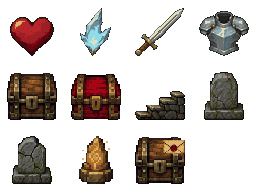
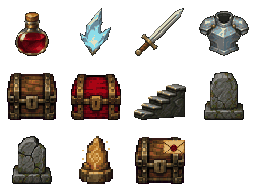
Rename healing pickup to potion and redraw side-facing stairs

Changed region(s): [[0.0312, 0.0625, 0.2188, 0.3125], [0.5, 0.4375, 0.75, 0.625]]

diff --git a/index.html b/index.html
@@ -1,7 +1,7 @@
 <!doctype html>
 <html lang="ja" data-startup>
-<head><style id="startup-style">html[data-startup],html[data-startup] body{margin:0;background:#070b0d;overflow:hidden}html[data-startup] body>:not(#startup-status):not(noscript){opacity:0!important;visibility:hidden!important;pointer-events:none!important}#startup-status{position:fixed;inset:0;z-index:10000;display:flex;flex-direction:column;align-items:center;justify-content:center;gap:16px;margin:0;padding:24px;background:#070b0d;color:#c7c8cc;font:14px/1.8 sans-serif;text-align:center}#startup-status[hidden]{display:none!important}#startup-retry{padding:10px 18px;border:1px solid #878b92;border-radius:4px;background:#303237;color:#eee;font:inherit}#startup-retry[hidden]{display:none}</style><meta charset="UTF-8"><meta name="viewport" content="width=device-width,initial-scale=1,viewport-fit=cover"><meta name="theme-color" content="#292b2f"><title>骸の旅路 — 記憶の迷宮</title><link rel="icon" href="./favicon.svg" type="image/svg+xml"><link rel="stylesheet" href="./style.css?v=3cd92b8defd9"><link rel="stylesheet" href="./screens.css?v=f2082bfa14ea"><script type="importmap" id="asset-imports">{"imports":{"./active-directive.js":"./active-directive.js?v=9d39d1e02ceb","./actor-rules.js":"./actor-rules.js?v=9044c8465822","./app.js":"./app.js?v=6377d8c08e59","./augment-art.js":"./augment-art.js?v=c145d1a95447","./augment-growth.js":"./augment-growth.js?v=637a4bc6e426","./augment-strength.js":"./augment-strength.js?v=f231593e5e30","./augment-view.js":"./augment-view.js?v=95894b3d4765","./augments.js":"./augments.js?v=754639bd9e60","./awakening.js":"./awakening.js?v=0f691b8adfd8","./boss-arena.js":"./boss-arena.js?v=0a249ca520c5","./build-performance.js":"./build-performance.js?v=6803146a32e4","./build-themes.js":"./build-themes.js?v=adc101169f0c","./card-access.js":"./card-access.js?v=7a97e0199534","./card-catalog.js":"./card-catalog.js?v=65f7715c196e","./card-editor.js":"./card-editor.js?v=dc611d5e8982","./card-inventory.js":"./card-inventory.js?v=52b8e332610c","./card-orders.js":"./card-orders.js?v=43ca8428fa71","./card-placement.js":"./card-placement.js?v=3ba1b736795a","./character-animation.js":"./character-animation.js?v=846a44d3b46e","./chest-view.js":"./chest-view.js?v=36ab0ed8c3bb","./crypt-obstacles.js":"./crypt-obstacles.js?v=da5f9731f535","./damage-view.js":"./damage-view.js?v=ad25349b42a6","./data.js":"./data.js?v=9428ac4d8c36","./debug-tools.js":"./debug-tools.js?v=9b32f8a4f543","./directive-card-migration.js":"./directive-card-migration.js?v=db0cfee578cb","./directive-safety.js":"./directive-safety.js?v=9e6f9dc4d673","./display-mode.js":"./display-mode.js?v=1200a20c9763","./drop-system.js":"./drop-system.js?v=5f5b885a6c70","./dungeon-layout.js":"./dungeon-layout.js?v=4766caf4ba4a","./editor-scroll.js":"./editor-scroll.js?v=d432721d02af","./enemy-attack-animation.js":"./enemy-attack-animation.js?v=d66a38b23017","./enemy-control.js":"./enemy-control.js?v=573188fc27e3","./enemy-view.js":"./enemy-view.js?v=59c2c5cccd17","./engine.js":"./engine.js?v=a1d03fe51224","./entrance-view.js":"./entrance-view.js?v=c71496db5fd5","./exploration-forecast.js":"./exploration-forecast.js?v=966694ee67bb","./field-events.js":"./field-events.js?v=f0630fcf42fe","./forecast-comparison.js":"./forecast-comparison.js?v=1d00a0a629c9","./forecast-view.js":"./forecast-view.js?v=55c84c25dd9c","./game-engine.js":"./game-engine.js?v=466e763ffcf4","./healing-items.js":"./healing-items.js?v=38c35c441894","./hover-help.js":"./hover-help.js?v=5ab3b03409b2","./log-visibility.js":"./log-visibility.js?v=a8d184fa9c31","./map-discovery.js":"./map-discovery.js?v=7e85856a912f","./map-view.js":"./map-view.js?v=6a5e3efe03ff","./normal-ending.js":"./normal-ending.js?v=c8b8b421be5a","./opening.js":"./opening.js?v=49dd7590c318","./order-presets.js":"./order-presets.js?v=4318479b11a6","./orders.js":"./orders.js?v=3a5bd481bbbd","./preparation-skins.js":"./preparation-skins.js?v=248b10334f76","./progression.js":"./progression.js?v=fefc50a042f2","./prop-view.js":"./prop-view.js?v=2e8aec011f8d","./readable-props.js":"./readable-props.js?v=40bcf8ec3afb","./reinforcements.js":"./reinforcements.js?v=17d0aa375da8","./retired-cards.js":"./retired-cards.js?v=e3b150578086","./retired-loot-condition.js":"./retired-loot-condition.js?v=c7e4b2e4ed7f","./retired-tactics.js":"./retired-tactics.js?v=6ac6a3d7bdd6","./scene-depth.js":"./scene-depth.js?v=6e084932d9db","./scene-lighting.js":"./scene-lighting.js?v=b5cb4d7ad449","./scene-music.js":"./scene-music.js?v=628218890f8a","./screen-tutorial.js":"./screen-tutorial.js?v=9a88231b8192","./set-bonuses.js":"./set-bonuses.js?v=83419172a572","./sight-shape.js":"./sight-shape.js?v=7fb76bf94888","./skill-tree.js":"./skill-tree.js?v=a443f7cda48c","./story-text.js":"./story-text.js?v=c16732c7c430","./subtitle-player.js":"./subtitle-player.js?v=3683e3daea9e","./tactics-ui.js":"./tactics-ui.js?v=f65d6e25ef72","./terrain-view.js":"./terrain-view.js?v=3034ddbc3d93","./theme-runtime.js":"./theme-runtime.js?v=516c73cb54e1","./theme-view.js":"./theme-view.js?v=23eb9ad18325","./thought-view.js":"./thought-view.js?v=c869345c5c7c","./traps.js":"./traps.js?v=76a5a5c39bd8","./ui-settings.js":"./ui-settings.js?v=5d3cf496e455","./wall-tileset.js":"./wall-tileset.js?v=0efdd86872f1"}}</script><style id="preparation-assets">:root{--prep-card-target:url("./art/ui/preparation/card-target.png?v=294a95499d91");--prep-card-condition:url("./art/ui/preparation/card-condition.png?v=1995a518f47b");--prep-card-skill:url("./art/ui/preparation/card-skill.png?v=30c317bc0a66");--prep-card-action:url("./art/ui/preparation/card-action.png?v=ce7770c0e3d0");--prep-tray-left:url("./art/ui/preparation/tray-left.png?v=41d297bec849");--prep-tray-middle:url("./art/ui/preparation/tray-middle.png?v=e8dbbc8dd60e");--prep-tray-right:url("./art/ui/preparation/tray-right.png?v=26f0500ba6f5")}html[data-preparation-skin="black-iron"]{--prep-tray-left:url("./art/ui/preparation/black-iron/tray-left.png?v=f699164bbeec");--prep-tray-middle:url("./art/ui/preparation/black-iron/tray-middle.png?v=c86dfa77ca3b");--prep-tray-right:url("./art/ui/preparation/black-iron/tray-right.png?v=af71fafdc89f")}html[data-preparation-skin="bone-parchment"]{--prep-tray-left:url("./art/ui/preparation/bone-parchment/tray-left.png?v=81457a1085ee");--prep-tray-middle:url("./art/ui/preparation/bone-parchment/tray-middle.png?v=29dab673fc17");--prep-tray-right:url("./art/ui/preparation/bone-parchment/tray-right.png?v=35d0901b5912")}html[data-preparation-skin="obsidian-runes"]{--prep-tray-left:url("./art/ui/preparation/obsidian-runes/tray-left.png?v=b764224fecce");--prep-tray-middle:url("./art/ui/preparation/obsidian-runes/tray-middle.png?v=da32e3412769");--prep-tray-right:url("./art/ui/preparation/obsidian-runes/tray-right.png?v=0ce90c4de94b")}</style><style id="preparation-text-layout">:root{--prep-text-left:10.097087378640776%;--prep-text-top:49.23076923076923%;--prep-text-width:78.44660194174757%;--prep-text-height:30.76923076923077%;--prep-number-left:37px;--prep-number-top:31px;--prep-number-width:34px;--prep-number-height:34px;--prep-card-overlap:39.37864077669902px;--prep-join-tail:5.048543689320386px;--prep-insertion-width:64px}</style><style id="preparation-decor-assets">:root{--prep-decor-background:url("./art/ui/preparation-decor-v1/background.webp?v=806cf1ca4a8c");--prep-decor-frame:url("./art/ui/preparation-decor-v1/frame.webp?v=45b65807cd5a");--prep-decor-slice:48;--prep-decor-outer:20px;--prep-decor-panel:16px}</style></head>
-<body><audio id="scene-bgm" loop preload="none" data-opening="./art/BGM/星々の眠る地.mp3?v=38999af25b23" data-dungeon="./art/BGM/洞窟A.mp3?v=86ade3a02600" data-boss="./art/BGM/蒼晶のトレイル.mp3?v=59b0eb63b5e0" data-readable-props="./art/props/readable-v1/atlas-64.png?v=ad0aa431a296" data-traps="./art/BGM/絡繰仕掛けの罠を抜けて.mp3?v=e024da6e4365" data-monsters="./art/BGM/密林廃墟群.mp3?v=62f952dd1358" data-fog="./art/BGM/Ruined-Altar.mp3?v=0720136edcd9" data-ending="./art/BGM/光差し込む廃墟.mp3?v=ea94a7b342e8"></audio><section id="normal-ending" class="normal-ending" aria-label="通常エンド" hidden><div class="ending-stage"><img id="ending-image" src="./art/ending/normal-end-son-strike-v6.webp?v=c67b4a08d8ce" alt="若者の剣に倒れ、手を伸ばす骸" loading="lazy"><div class="ending-shade"></div><button id="ending-advance" class="subtitle-advance" aria-label="字幕を進める"></button><small id="ending-hint" class="subtitle-hint"></small><p id="ending-subtitle" class="ending-subtitle" aria-live="polite"><span id="ending-text"></span><span id="ending-caret" class="subtitle-caret" aria-hidden="true" hidden>▼</span></p><div id="ending-result" class="ending-result" hidden><h1 id="ending-heading">届かなかった声</h1><p id="ending-label">NORMAL END</p><p><span id="ending-result-note">通常エンド達成<br>次の旅では、B15の手紙を開けられます。</span></p><p id="ending-unimplemented" class="true-end-unimplemented" role="note" hidden></p><button id="ending-next" class="primary">次の旅へ</button></div></div><button id="ending-options" class="ending-options">オプション</button><button id="ending-skip" class="ending-skip">スキップ</button></section>
+<head><style id="startup-style">html[data-startup],html[data-startup] body{margin:0;background:#070b0d;overflow:hidden}html[data-startup] body>:not(#startup-status):not(noscript){opacity:0!important;visibility:hidden!important;pointer-events:none!important}#startup-status{position:fixed;inset:0;z-index:10000;display:flex;flex-direction:column;align-items:center;justify-content:center;gap:16px;margin:0;padding:24px;background:#070b0d;color:#c7c8cc;font:14px/1.8 sans-serif;text-align:center}#startup-status[hidden]{display:none!important}#startup-retry{padding:10px 18px;border:1px solid #878b92;border-radius:4px;background:#303237;color:#eee;font:inherit}#startup-retry[hidden]{display:none}</style><meta charset="UTF-8"><meta name="viewport" content="width=device-width,initial-scale=1,viewport-fit=cover"><meta name="theme-color" content="#292b2f"><title>骸の旅路 — 記憶の迷宮</title><link rel="icon" href="./favicon.svg" type="image/svg+xml"><link rel="stylesheet" href="./style.css?v=3cd92b8defd9"><link rel="stylesheet" href="./screens.css?v=f2082bfa14ea"><script type="importmap" id="asset-imports">{"imports":{"./active-directive.js":"./active-directive.js?v=9d39d1e02ceb","./actor-rules.js":"./actor-rules.js?v=9044c8465822","./app.js":"./app.js?v=6377d8c08e59","./augment-art.js":"./augment-art.js?v=c145d1a95447","./augment-growth.js":"./augment-growth.js?v=637a4bc6e426","./augment-strength.js":"./augment-strength.js?v=f231593e5e30","./augment-view.js":"./augment-view.js?v=95894b3d4765","./augments.js":"./augments.js?v=754639bd9e60","./awakening.js":"./awakening.js?v=0f691b8adfd8","./boss-arena.js":"./boss-arena.js?v=0a249ca520c5","./build-performance.js":"./build-performance.js?v=6803146a32e4","./build-themes.js":"./build-themes.js?v=adc101169f0c","./card-access.js":"./card-access.js?v=7a97e0199534","./card-catalog.js":"./card-catalog.js?v=65f7715c196e","./card-editor.js":"./card-editor.js?v=dc611d5e8982","./card-inventory.js":"./card-inventory.js?v=52b8e332610c","./card-orders.js":"./card-orders.js?v=26bbc178f4e1","./card-placement.js":"./card-placement.js?v=3ba1b736795a","./character-animation.js":"./character-animation.js?v=846a44d3b46e","./chest-view.js":"./chest-view.js?v=36ab0ed8c3bb","./crypt-obstacles.js":"./crypt-obstacles.js?v=da5f9731f535","./damage-view.js":"./damage-view.js?v=ad25349b42a6","./data.js":"./data.js?v=9428ac4d8c36","./debug-tools.js":"./debug-tools.js?v=9b32f8a4f543","./directive-card-migration.js":"./directive-card-migration.js?v=db0cfee578cb","./directive-safety.js":"./directive-safety.js?v=9e6f9dc4d673","./display-mode.js":"./display-mode.js?v=1200a20c9763","./drop-system.js":"./drop-system.js?v=5f5b885a6c70","./dungeon-layout.js":"./dungeon-layout.js?v=4766caf4ba4a","./editor-scroll.js":"./editor-scroll.js?v=d432721d02af","./enemy-attack-animation.js":"./enemy-attack-animation.js?v=d66a38b23017","./enemy-control.js":"./enemy-control.js?v=573188fc27e3","./enemy-view.js":"./enemy-view.js?v=59c2c5cccd17","./engine.js":"./engine.js?v=a1d03fe51224","./entrance-view.js":"./entrance-view.js?v=c71496db5fd5","./exploration-forecast.js":"./exploration-forecast.js?v=966694ee67bb","./field-events.js":"./field-events.js?v=f0630fcf42fe","./forecast-comparison.js":"./forecast-comparison.js?v=1d00a0a629c9","./forecast-view.js":"./forecast-view.js?v=55c84c25dd9c","./game-engine.js":"./game-engine.js?v=2b3440e311ea","./healing-items.js":"./healing-items.js?v=c399c53731e4","./hover-help.js":"./hover-help.js?v=5ab3b03409b2","./log-visibility.js":"./log-visibility.js?v=a8d184fa9c31","./map-discovery.js":"./map-discovery.js?v=7e85856a912f","./map-view.js":"./map-view.js?v=6a5e3efe03ff","./normal-ending.js":"./normal-ending.js?v=c8b8b421be5a","./opening.js":"./opening.js?v=49dd7590c318","./order-presets.js":"./order-presets.js?v=4318479b11a6","./orders.js":"./orders.js?v=4b867f6ecbc7","./preparation-skins.js":"./preparation-skins.js?v=248b10334f76","./progression.js":"./progression.js?v=fefc50a042f2","./prop-view.js":"./prop-view.js?v=2e8aec011f8d","./readable-props.js":"./readable-props.js?v=fbd89f5e2ec3","./reinforcements.js":"./reinforcements.js?v=17d0aa375da8","./retired-cards.js":"./retired-cards.js?v=e3b150578086","./retired-loot-condition.js":"./retired-loot-condition.js?v=c7e4b2e4ed7f","./retired-tactics.js":"./retired-tactics.js?v=6ac6a3d7bdd6","./scene-depth.js":"./scene-depth.js?v=6e084932d9db","./scene-lighting.js":"./scene-lighting.js?v=b5cb4d7ad449","./scene-music.js":"./scene-music.js?v=628218890f8a","./screen-tutorial.js":"./screen-tutorial.js?v=9a88231b8192","./set-bonuses.js":"./set-bonuses.js?v=83419172a572","./sight-shape.js":"./sight-shape.js?v=7fb76bf94888","./skill-tree.js":"./skill-tree.js?v=a443f7cda48c","./story-text.js":"./story-text.js?v=c16732c7c430","./subtitle-player.js":"./subtitle-player.js?v=3683e3daea9e","./tactics-ui.js":"./tactics-ui.js?v=f65d6e25ef72","./terrain-view.js":"./terrain-view.js?v=3034ddbc3d93","./theme-runtime.js":"./theme-runtime.js?v=516c73cb54e1","./theme-view.js":"./theme-view.js?v=23eb9ad18325","./thought-view.js":"./thought-view.js?v=62f01217998b","./traps.js":"./traps.js?v=76a5a5c39bd8","./ui-settings.js":"./ui-settings.js?v=5d3cf496e455","./wall-tileset.js":"./wall-tileset.js?v=0efdd86872f1"}}</script><style id="preparation-assets">:root{--prep-card-target:url("./art/ui/preparation/card-target.png?v=294a95499d91");--prep-card-condition:url("./art/ui/preparation/card-condition.png?v=1995a518f47b");--prep-card-skill:url("./art/ui/preparation/card-skill.png?v=30c317bc0a66");--prep-card-action:url("./art/ui/preparation/card-action.png?v=ce7770c0e3d0");--prep-tray-left:url("./art/ui/preparation/tray-left.png?v=41d297bec849");--prep-tray-middle:url("./art/ui/preparation/tray-middle.png?v=e8dbbc8dd60e");--prep-tray-right:url("./art/ui/preparation/tray-right.png?v=26f0500ba6f5")}html[data-preparation-skin="black-iron"]{--prep-tray-left:url("./art/ui/preparation/black-iron/tray-left.png?v=f699164bbeec");--prep-tray-middle:url("./art/ui/preparation/black-iron/tray-middle.png?v=c86dfa77ca3b");--prep-tray-right:url("./art/ui/preparation/black-iron/tray-right.png?v=af71fafdc89f")}html[data-preparation-skin="bone-parchment"]{--prep-tray-left:url("./art/ui/preparation/bone-parchment/tray-left.png?v=81457a1085ee");--prep-tray-middle:url("./art/ui/preparation/bone-parchment/tray-middle.png?v=29dab673fc17");--prep-tray-right:url("./art/ui/preparation/bone-parchment/tray-right.png?v=35d0901b5912")}html[data-preparation-skin="obsidian-runes"]{--prep-tray-left:url("./art/ui/preparation/obsidian-runes/tray-left.png?v=b764224fecce");--prep-tray-middle:url("./art/ui/preparation/obsidian-runes/tray-middle.png?v=da32e3412769");--prep-tray-right:url("./art/ui/preparation/obsidian-runes/tray-right.png?v=0ce90c4de94b")}</style><style id="preparation-text-layout">:root{--prep-text-left:10.097087378640776%;--prep-text-top:49.23076923076923%;--prep-text-width:78.44660194174757%;--prep-text-height:30.76923076923077%;--prep-number-left:37px;--prep-number-top:31px;--prep-number-width:34px;--prep-number-height:34px;--prep-card-overlap:39.37864077669902px;--prep-join-tail:5.048543689320386px;--prep-insertion-width:64px}</style><style id="preparation-decor-assets">:root{--prep-decor-background:url("./art/ui/preparation-decor-v1/background.webp?v=806cf1ca4a8c");--prep-decor-frame:url("./art/ui/preparation-decor-v1/frame.webp?v=45b65807cd5a");--prep-decor-slice:48;--prep-decor-outer:20px;--prep-decor-panel:16px}</style></head>
+<body><audio id="scene-bgm" loop preload="none" data-opening="./art/BGM/星々の眠る地.mp3?v=38999af25b23" data-dungeon="./art/BGM/洞窟A.mp3?v=86ade3a02600" data-boss="./art/BGM/蒼晶のトレイル.mp3?v=59b0eb63b5e0" data-readable-props="./art/props/readable-v1/atlas-64.png?v=cc4acb329036" data-traps="./art/BGM/絡繰仕掛けの罠を抜けて.mp3?v=e024da6e4365" data-monsters="./art/BGM/密林廃墟群.mp3?v=62f952dd1358" data-fog="./art/BGM/Ruined-Altar.mp3?v=0720136edcd9" data-ending="./art/BGM/光差し込む廃墟.mp3?v=ea94a7b342e8"></audio><section id="normal-ending" class="normal-ending" aria-label="通常エンド" hidden><div class="ending-stage"><img id="ending-image" src="./art/ending/normal-end-son-strike-v6.webp?v=c67b4a08d8ce" alt="若者の剣に倒れ、手を伸ばす骸" loading="lazy"><div class="ending-shade"></div><button id="ending-advance" class="subtitle-advance" aria-label="字幕を進める"></button><small id="ending-hint" class="subtitle-hint"></small><p id="ending-subtitle" class="ending-subtitle" aria-live="polite"><span id="ending-text"></span><span id="ending-caret" class="subtitle-caret" aria-hidden="true" hidden>▼</span></p><div id="ending-result" class="ending-result" hidden><h1 id="ending-heading">届かなかった声</h1><p id="ending-label">NORMAL END</p><p><span id="ending-result-note">通常エンド達成<br>次の旅では、B15の手紙を開けられます。</span></p><p id="ending-unimplemented" class="true-end-unimplemented" role="note" hidden></p><button id="ending-next" class="primary">次の旅へ</button></div></div><button id="ending-options" class="ending-options">オプション</button><button id="ending-skip" class="ending-skip">スキップ</button></section>
 <dialog id="landscape-gate" class="landscape-gate" aria-labelledby="landscape-heading"><h2 id="landscape-heading">横向きでプレイしてください</h2><p id="landscape-status">端末を横向きにしてください。</p><button id="landscape-fullscreen" type="button">横向きで全画面表示</button><small>PCと同じ配置で表示します。</small></dialog><div id="startup-status" role="status" aria-live="polite"><span id="startup-message">読み込み中…</span><button id="startup-retry" type="button" hidden>再読み込み</button></div>
 <noscript><style>#startup-status{display:none!important}</style><p style="color:#eee;padding:24px">ゲームを遊ぶにはJavaScriptを有効にしてください。</p></noscript>
 <section id="title-scene" class="title-scene" aria-labelledby="title-name" hidden><img id="title-background" class="title-background" alt="" data-mukuro="./art/opening-awakening.png?v=814d575892b7" data-segare="./art/opening-son-journey.png?v=3d4dd5e94c79"><div class="title-shade"></div><video id="title-fx" class="title-fx" data-mukuro="./art/title-mukuro-v3.webm?v=cb09a993a9d1" data-segare="./art/title-segare-v3.webm?v=0aee553c04f9" data-mukuro-fallback="./art/title-mukuro-v3-screen.mp4?v=dc14119acecd" data-segare-fallback="./art/title-segare-v3-screen.mp4?v=8ac95de47383" aria-hidden="true" muted loop playsinline preload="auto"></video><div class="title-content"><h1 id="title-name" class="visually-hidden">骸の旅路</h1><div class="title-logo-frame"><img id="title-logo" class="title-logo" alt="骸の旅路" data-mukuro="./art/logo-mukuro-journey.png?v=4069b9ecaf07" data-segare="./art/logo-segare-journey.png?v=265ce004c162"></div><nav class="title-menu" aria-label="タイトルメニュー"><button id="title-new" type="button">NewGame</button><button id="title-load" type="button" disabled>LoadGame</button><button id="title-option" type="button">Option</button><p id="title-unimplemented" class="true-end-unimplemented" role="note" hidden></p></nav></div></section>
@@ -11,7 +11,7 @@
 <div class="workspace" id="workspace" data-screen="prepare">
 <section id="awakening-scene" class="awakening-scene" aria-label="目覚め" hidden><div id="awakening-start"><button id="primary" class="primary">思い出す</button></div><button id="awakening-advance" class="subtitle-advance" aria-label="字幕を進める" hidden></button><small id="awakening-hint" class="subtitle-hint" hidden></small><p id="awakening-copy" class="awakening-subtitle" aria-live="polite" hidden><span id="awakening-text"></span><span id="awakening-caret" class="subtitle-caret" aria-hidden="true" hidden>▼</span></p></section>
 <section class="prepare-scene preparation panel" id="prepare-scene"><div class="panel-heading"><h2 id="prepare-floor">次の階への支度</h2><span class="tag">PREPARATION</span></div><div class="preparation-launch"><div class="launch-area" id="launch-area"><button id="prepare-status" class="secondary">ステータス</button><button id="prepare-forecast" class="secondary">探索の予測</button><div id="forecast-summary" class="forecast-summary" role="status" aria-live="polite" hidden></div><button id="prepare-journal" class="secondary">旅の記録</button><button id="abandon-run" class="secondary abandon-run">あきらめる</button></div></div><nav class="tabs" aria-label="準備メニュー"><button data-tab="orders" class="active">探索指示</button><button data-tab="gear">装備</button><button data-tab="status">ステータス</button><button id="preparation-skin" type="button" aria-label="カードスキンを変更">スキン：古金</button></nav><div id="prep-hint" class="prep-hint"></div><div id="prep-augments" class="prep-augments"></div><div id="tab-content"></div></section>
-<section class="adventure panel"><div class="dungeon-viewport transparent-view" aria-label="探索ゲーム画面"><div class="map-wrap" id="map-wrap"><canvas id="map" data-red-chest="./art/props/chest-skill-64.png?v=af8dcd916ebf" data-enemies="./art/enemies/v2/atlas-64.png?v=3149ffdfa138" data-hero="./art/characters/mukuro-march64-v1/sprites.json?v=81e47c514533" data-walls="./art/terrain/walls/crypt/tileset.json?v=e28794ff3e0a" data-readable-props="./art/props/readable-v1/atlas-64.png?v=ad0aa431a296" data-traps="./art/props/traps-v1/atlas-64.png?v=0097bfa975b4" data-map-items="./art/props/map-items-64.png?v=aedf1319f512" data-props="./art/props/atlas-64.png?v=11cfc2854a82" data-terrain="./art/terrain/floors-v2/atlas-64.png?v=702425fb5b6e" width="1920" height="1080" aria-label="自動探索するダンジョン。詳しい行動は右下の旅の記録で確認できます。"></canvas><div class="map-vignette"></div>
+<section class="adventure panel"><div class="dungeon-viewport transparent-view" aria-label="探索ゲーム画面"><div class="map-wrap" id="map-wrap"><canvas id="map" data-red-chest="./art/props/chest-skill-64.png?v=af8dcd916ebf" data-enemies="./art/enemies/v2/atlas-64.png?v=3149ffdfa138" data-hero="./art/characters/mukuro-march64-v1/sprites.json?v=81e47c514533" data-walls="./art/terrain/walls/crypt/tileset.json?v=e28794ff3e0a" data-readable-props="./art/props/readable-v1/atlas-64.png?v=cc4acb329036" data-traps="./art/props/traps-v1/atlas-64.png?v=0097bfa975b4" data-map-items="./art/props/map-items-64.png?v=aedf1319f512" data-props="./art/props/atlas-64.png?v=11cfc2854a82" data-terrain="./art/terrain/floors-v2/atlas-64.png?v=702425fb5b6e" width="1920" height="1080" aria-label="自動探索するダンジョン。詳しい行動は右下の旅の記録で確認できます。"></canvas><div class="map-vignette"></div>
 <div class="hud-overlay hud-overlay-top" id="hud-top" aria-label="階層・レベル・経験値・HP・図鑑・オプション・記憶の欠片"><div class="floor-health"><strong id="floor-title" class="hud-stage-title">忘れられた地下墓所 · B30</strong><canvas id="portrait" width="56" height="56" hidden aria-hidden="true"></canvas><div id="level-vitals" class="level-vitals" role="img" aria-label="レベル1、経験値0"><strong id="level-text">Lv.1</strong><div class="exp-track"><div id="exp-bar"></div></div></div><div class="player-vitals"><div class="player-name"><strong>HP</strong><span id="hp-text"></span></div><div class="hp-track"><div id="hp-bar"></div></div><small id="intent" hidden></small></div></div><div id="hud-tools"></div><div class="hud-fragments"><small>記憶の欠片</small><b id="hud-shards">12</b></div></div>
 <div class="hud-alerts"><div id="field-gimmick" class="field-gimmick" role="status" hidden></div><div id="floor-message" class="floor-message" role="status" hidden></div></div><div class="automap-overlay"><canvas id="auto-map" width="187" height="139" aria-label="入室済みの部屋と発見済み通路のマップ"></canvas></div><div id="map-notice" class="map-notice" hidden><div id="notice-copy"></div><div id="notice-actions"></div><div id="notice-hint"></div></div><span id="skill-announcement" class="visually-hidden" role="status" aria-live="polite"></span><div id="field-log-host" class="field-log-host" tabindex="0" aria-label="旅の記録。マウスを載せるかタップして表示、スクロールで過去の記録"></div>
 <div class="hud-overlay hud-overlay-bottom" id="hud-bottom" aria-label="骸の思考と探索操作"><div class="thought-stack"><p id="executing-order" class="executing-order" role="status" hidden></p><p id="memory-quote" class="memory-subtitle">名前も、顔も、思い出せない。それでも、上へ行かなければ。</p><p id="thought-subtitle" class="thought-subtitle" role="status" aria-live="polite" aria-label="骸のひとりごと"></p></div><div class="hud-bottom-controls"><div class="hud-value"><small>ATK</small><b id="atk">8</b></div><div class="hud-value"><small>DEF</small><b id="def">1</b></div><div class="hud-value"><small>視界範囲</small><b id="hud-sight">3マス</b></div><span id="turn" class="hud-turn">TURN 000</span><div class="speed" role="group" aria-label="探索速度"><button data-speed="0.5">0.5×</button><button data-speed="1" class="active">1×</button><button data-speed="2">2×</button><button data-speed="4">4×</button></div><button id="pause-toggle" class="pause-toggle" hidden>ひとやすみ</button><button id="explore-abandon" class="pause-toggle" hidden>あきらめる</button></div></div></div></div>

diff --git a/game-engine.js b/game-engine.js
@@ -140,7 +140,7 @@ export function targetEnemy(s){return dirs.map(([dx,dy])=>s.enemies.find(e=>e.x=
 export function obtainable(s,i){return i.type==='letter'?Boolean(s.profile.normalClears&&!s.letter):true;}
 function receiveReward(s,id){const fresh=grantReward(s,id);log(s,fresh?'「'+rewardById[id].name+'」を手に入れた。'+(rewardById[id].kind==='order'?'次の準備で探索指示に設定できる。':'この旅で使用できる。'):'「'+rewardById[id].name+'」は取得済み。記憶の欠片 +5','good');}
 function pickup(s){const item=s.items.find(i=>i.x===s.player.x&&i.y===s.player.y);if(!item)return;if(!obtainable(s,item)){s.intent='封じられた宝箱。まだ思い出せない';return;}s.items=s.items.filter(i=>i!==item);
- if(isHealingItem(item)){const heal=Math.min(stats(s).maxHp-s.hp,BALANCE.heartHeal);s.hp+=heal;log(s,'ハート。HP +'+heal,'good');}
+ if(isHealingItem(item)){const heal=Math.min(stats(s).maxHp-s.hp,BALANCE.heartHeal);s.hp+=heal;log(s,'回復ポーション。HP +'+heal,'good');}
  else if(item.type==='fragment'){const amount=3+(hasAugment(s,'scavenger')?ap(s,'scavenger').extra:0)+(hasAugment(s,'lucky-find')&&nextRandom(s)<Math.min(1,ap(s,'lucky-find').chance)?4:0);s.shards+=amount;log(s,'床の記憶の欠片を拾った。＋'+amount,'good');}
  else if(item.type==='gear'){acquire(s,item.gear);log(s,gearName(item.gear)+'を拾った。','good');}
  else if(item.type==='reward')receiveReward(s,item.rewardId);
@@ -300,6 +300,6 @@ export function normalizeSave(input){
  s.orders=s.orders.filter(r=>!['critical','leech','double-strike'].includes(r.effect?.id));s.abilities=s.abilities.filter(id=>!['critical','leech','double-strike'].includes(id));s.ownedCards=s.ownedCards.filter(k=>cardByKey[k]||retiredTargets.includes(k)||k==='action:tactics'||k==='condition:loot-empty'||k==='condition:injured');s.profile.cards=s.profile.cards.filter(k=>cardByKey[k]||retiredTargets.includes(k)||k==='action:tactics'||k==='condition:loot-empty'||k==='condition:injured');
  for(const i of s.items)if(i.type==='chest'&&!i.gear&&i.cardId&&!cardByKey[i.cardId]&&i.cardId!=='action:tactics'&&i.cardId!=='condition:loot-empty'&&i.cardId!=='condition:injured'&&i.cardId!=='action:attack'&&!retiredTargets.includes(i.cardId)&&!retiredCollectionCards[i.cardId.replace('action:','')]){const id=i.cardId.replace('skill:','');delete i.cardId;if(augmentById[id])i.rewardId=id;else i.cardId=rollCardChest(s,()=>nextRandom(s));}else if(i.cardId==='action:letter'){i.cardId=rollCardChest(s,()=>nextRandom(s));}
  if(s.profile.normalClears&&!s.ownedCards.includes('action:letter'))grantCard(s,'action:letter');s.version=15;log(s,'常時スキルをオーグメントへ移行。品物取得は装備取得へ変更しました。','story');}
- if(s.version<16){migrateRetiredCards(s,input);s.version=16;log(s,'一括取得カードを削除。旧指示は武器／ハートに置換し、防具カードも補填しました。増援はこの階の経過ターンに従って出現します。','story');}
+ if(s.version<16){migrateRetiredCards(s,input);s.version=16;log(s,'一括取得カードを削除。旧指示は武器／回復ポーションに置換し、防具カードも補填しました。増援はこの階の経過ターンに従って出現します。','story');}
  removeTacticsCard(s);migrateLootCondition(s);normalizeThemes(s);if(s.actorRuleRevision!==undefined&&s.actorRuleRevision!==1)return null;if(!Array.isArray(s.orders)||!Array.isArray(s.items)||!Array.isArray(s.ownedCards)||!Array.isArray(s.profile?.cards))return null;if(s.actorRuleRevision===undefined)s.orders=s.orders.map(r=>r&&!r.cards&&typeof r.id==='string'?legacyToCards(r):r);migrateActorRules(s);migrateDirectiveCards(s);migrateHealingItems(s);if(s.newCards===undefined)s.newCards=[];if(!validateSave(s))return null;const t=themeState(s);for(const id of [...(s.skillUses||[]),...(s.mended?['mend']:[]),...(s.warped?['warp']:[])])if(!t.used.includes(id))t.used.push(id);reveal(s);return s;
 }

diff --git a/thought-view.js b/thought-view.js
@@ -30,7 +30,7 @@ const thoughts={
 export function thoughtText(intent=''){
  const order=orderDefinitions.find(o=>intent===`指示：${o.name}`);
  if(order)return thoughts[order.id];
- if(intent.startsWith('カード指示：')){const action=intent.slice(6);return ({'階段を上る':'階段だ。上へ行こう。','宝箱を取得':'あの箱を開けてみよう。','武器を取得':'あの剣を拾っておこう。','防具を取得':'身を守れそうなものがある。','記憶の欠片を取得':'あの光を、取り戻そう。','ハートを取得':'ハートだ。少し楽になるかもしれない。','手紙の箱を開ける':'あの手紙を届けたい。','視界の先を調べる':'この先に何があるだろう。','未踏の床を調べる':'まだ歩いていない道へ行こう。','敵から離れる':'今は距離を取ろう。','攻撃する':'あの敵を倒そう。','相手から離れる':'今は距離を取ろう。','全ての部屋を探索する':'まだ入っていない部屋を探そう。','全てのマスを探索する':'隅まで歩いて、確かめよう。','敵を攻撃':'あの敵を倒そう。','再生の祈り':'まだ倒れるわけにはいかない。','窮地の転移':'ここから逃れよう！','捨て身の斬撃':'痛みごと、この一撃に込めよう。','円環の斬撃':'囲まれても、まとめて切り開こう。','骨の守り':'骨を固めよう。ここは耐える。','静寂の構え':'息を潜めて……次の一撃に集中しよう。'})[action]||(themedSkills.some(s=>s.name===action)?'ここは「'+action+'」を使おう。':'よし、決めたとおりに動こう。');}
+ if(intent.startsWith('カード指示：')){const action=intent.slice(6);return ({'階段を上る':'階段だ。上へ行こう。','宝箱を取得':'あの箱を開けてみよう。','武器を取得':'あの剣を拾っておこう。','防具を取得':'身を守れそうなものがある。','記憶の欠片を取得':'あの光を、取り戻そう。','回復ポーションを取得':'回復ポーションだ。少し楽になるかもしれない。','手紙の箱を開ける':'あの手紙を届けたい。','視界の先を調べる':'この先に何があるだろう。','未踏の床を調べる':'まだ歩いていない道へ行こう。','敵から離れる':'今は距離を取ろう。','攻撃する':'あの敵を倒そう。','相手から離れる':'今は距離を取ろう。','全ての部屋を探索する':'まだ入っていない部屋を探そう。','全てのマスを探索する':'隅まで歩いて、確かめよう。','敵を攻撃':'あの敵を倒そう。','再生の祈り':'まだ倒れるわけにはいかない。','窮地の転移':'ここから逃れよう！','捨て身の斬撃':'痛みごと、この一撃に込めよう。','円環の斬撃':'囲まれても、まとめて切り開こう。','骨の守り':'骨を固めよう。ここは耐える。','静寂の構え':'息を潜めて……次の一撃に集中しよう。'})[action]||(themedSkills.some(s=>s.name===action)?'ここは「'+action+'」を使おう。':'よし、決めたとおりに動こう。');}
  if(intent.startsWith('戦術判断：'))return `${intent.slice(5).replace(/を優先$/,'')}から倒そう。`;
  if(intent.startsWith('隣接する'))return `${intent.slice(4).replace(/と交戦$/,'')}か……ここは戦うしかない。`;
  if(intent==='進路の敵に向き合う')return 'あいつが道をふさいでいる。ここは倒そう。';

diff --git a/healing-items.test.js b/healing-items.test.js
@@ -2,7 +2,7 @@ import test from'node:test';import assert from'node:assert/strict';
 import{newGame,normalizeSave,makeFloor,tick,createCardRule,grantCard,validateSave,chooseChestCard}from'./engine.js';
 import{cardByKey}from'./card-catalog.js';import{readPresets,PRESET_KEY}from'./order-presets.js';
 test('all newly placed healing pickups are hearts, including boss rooms, and recovery remains 10',()=>{
- for(const floor of [1,2,11,21,30]){const s=newGame(18);s.floor=floor;makeFloor(s);assert.ok(s.items.filter(i=>i.type==='heart').length>=2);assert.ok(!s.items.some(i=>['potion','herb'].includes(i.type)));const h=s.items.find(i=>i.type==='heart');s.player={x:h.x,y:h.y};s.hp=1;s.enemies=[];s.traps=[];s.orders=[createCardRule('self',[],'action','wait')];s.phase='explore';s.augmentStarted=true;tick(s);assert.equal(s.hp,11);assert.ok(s.logs.some(l=>l.text==='ハート。HP +10'));}
+ for(const floor of [1,2,11,21,30]){const s=newGame(18);s.floor=floor;makeFloor(s);assert.ok(s.items.filter(i=>i.type==='heart').length>=2);assert.ok(!s.items.some(i=>['potion','herb'].includes(i.type)));const h=s.items.find(i=>i.type==='heart');s.player={x:h.x,y:h.y};s.hp=1;s.enemies=[];s.traps=[];s.orders=[createCardRule('self',[],'action','wait')];s.phase='explore';s.augmentStarted=true;tick(s);assert.equal(s.hp,11);assert.ok(s.logs.some(l=>l.text==='回復ポーション。HP +10'));}
 });
 test('legacy springs merge inventory, rows, discoveries, NEW marks and pending rewards without rerolling',()=>{
  const s=newGame(18);s.phase='explore';s.augmentStarted=true;s.ownedCards.push('action:collect-springs','action:collect-herbs');s.newCards=['action:collect-springs','action:collect-herbs'];s.profile.cards.push('action:collect-springs');s.orders=[createCardRule('self',[],'action','collect-springs')];s.items[0].type='potion';s.items[1].type='herb';s.cardOffer={choices:['action:collect-springs','action:collect-herbs'],categories:{action:['action:collect-springs','action:collect-herbs']},selectedKind:'action',categoryLocked:true};const before=JSON.stringify(s),rng=s.rngState,m=normalizeSave(s);assert.ok(m);assert.equal(JSON.stringify(s),before);assert.equal(m.rngState,rng);assert.equal(m.orders.length,1);assert.equal(m.orders[0].effect.id,'collect-herbs');assert.deepEqual(m.newCards,['action:collect-herbs']);assert.equal(m.ownedCards.filter(k=>k==='action:collect-herbs').length,1);assert.ok(!m.items.some(i=>['potion','herb'].includes(i.type)));assert.deepEqual(m.cardOffer.choices,['action:collect-herbs']);assert.equal(validateSave(m),true);assert.deepEqual(normalizeSave(m),m);assert.equal(chooseChestCard(m,'action:collect-herbs'),true);assert.equal(m.cardOffer,null);

diff --git a/retired-tactics.test.js b/retired-tactics.test.js
@@ -2,6 +2,6 @@ import test from'node:test';import assert from'node:assert/strict';
 import{newGame,normalizeSave,createCardRule}from'./engine.js';
 import{cardByKey}from'./card-catalog.js';
 import{readPresets,PRESET_KEY}from'./order-presets.js';
-test('retired tactics migrates inventory, rows, boxes and locked offers once',()=>{const s=newGame(9);s.phase='explore';s.ownedCards.push('action:tactics');s.profile.cards.push('action:tactics');s.orders=[createCardRule('self',[],'action','tactics'),createCardRule()];s.items.push({x:4,y:4,type:'chest',cardId:'action:tactics'});s.cardOffer={choices:['action:tactics'],categories:{action:['action:tactics']},selectedKind:'action',categoryLocked:true};const before=s.shards,r=normalizeSave(s);assert.ok(r);assert.equal(r.shards,before+5);assert.equal(r.orders.length,1);assert.ok(!r.ownedCards.includes('action:tactics'));assert.equal(r.items.at(-1).cardId,'action:avoid-traps');assert.deepEqual(r.cardOffer.choices,['action:avoid-traps']);assert.deepEqual(normalizeSave(r),r);assert.equal(cardByKey['action:tactics'],undefined);assert.equal(cardByKey['action:collect-herbs'].name,'ハートを取得');});
+test('retired tactics migrates inventory, rows, boxes and locked offers once',()=>{const s=newGame(9);s.phase='explore';s.ownedCards.push('action:tactics');s.profile.cards.push('action:tactics');s.orders=[createCardRule('self',[],'action','tactics'),createCardRule()];s.items.push({x:4,y:4,type:'chest',cardId:'action:tactics'});s.cardOffer={choices:['action:tactics'],categories:{action:['action:tactics']},selectedKind:'action',categoryLocked:true};const before=s.shards,r=normalizeSave(s);assert.ok(r);assert.equal(r.shards,before+5);assert.equal(r.orders.length,1);assert.ok(!r.ownedCards.includes('action:tactics'));assert.equal(r.items.at(-1).cardId,'action:avoid-traps');assert.deepEqual(r.cardOffer.choices,['action:avoid-traps']);assert.deepEqual(normalizeSave(r),r);assert.equal(cardByKey['action:tactics'],undefined);assert.equal(cardByKey['action:collect-herbs'].name,'回復ポーションを取得');});
 test('preset keeps other rows when retiring tactics',()=>{const p={name:'old',actorRuleRevision:1,orders:[createCardRule('self',[],'action','tactics'),createCardRule()]};const result=readPresets({getItem:k=>k===PRESET_KEY?JSON.stringify([p]):null});assert.equal(result.length,1);assert.equal(result[0].orders.length,1);});
 

diff --git a/orders.js b/orders.js
@@ -9,8 +9,8 @@ export const orderDefinitions=[
  {id:'collect-weapons',name:'武器を取得',detail:'発見した武器のみ回収する。',},
  {id:'chests',name:'宝箱を優先して回収',detail:'通常宝箱だけを集める。中身は開封まで不明。',},
  {id:'chests-near',name:'近くの宝箱だけ回収',detail:'指定距離内の通常宝箱へ向かう。',param:'range',value:6,min:1,max:20,step:1,unit:'マス以内'},
- {id:'heal-critical',name:'瀕死時に泉へ向かう',detail:'指定HP以下で、発見済みの泉やハートへ向かう。',param:'hp',value:35,min:10,max:90,step:5,unit:'%以下'},
- {id:'heal-wounded',name:'負傷したら泉へ向かう',detail:'泉やハートで回復を早めに使うHP基準を指定する。',param:'hp',value:70,min:10,max:95,step:5,unit:'%以下'},
+ {id:'heal-critical',name:'瀕死時に回復ポーションへ向かう',detail:'指定HP以下で、発見済みの回復ポーションへ向かう。',param:'hp',value:35,min:10,max:90,step:5,unit:'%以下'},
+ {id:'heal-wounded',name:'負傷したら回復ポーションへ向かう',detail:'回復ポーションで回復を早めに使うHP基準を指定する。',param:'hp',value:70,min:10,max:95,step:5,unit:'%以下'},
  {id:'letter',name:'手紙の宝箱を優先',detail:'開封条件を満たす手紙の宝箱へ向かう。',},
  {id:'frontier',name:'視界の先を優先して調べる',detail:'未発見の地形に接する既知かつ未踏の床へ進む。'},
  {id:'explore-near',name:'近くの未踏床を調べる',detail:'指定距離内の、まだ踏んでいない床へ。',param:'range',value:6,min:1,max:20,step:1,unit:'マス以内'},

diff --git a/readable-props.js b/readable-props.js
@@ -1,5 +1,5 @@
-export const READABLE_PROP_FRAMES={heart:[0,0],fragment:[1,0],sword:[2,0],armor:[3,0],chest:[0,1],'chest-red':[1,1],stairs:[2,1],tombstone:[3,1],'tombstone-cracked':[0,2],reward:[1,2],letter:[2,2]};
-const aliases={herb:'heart',potion:'heart',gear:'sword'};
+export const READABLE_PROP_FRAMES={potion:[0,0],fragment:[1,0],sword:[2,0],armor:[3,0],chest:[0,1],'chest-red':[1,1],stairs:[2,1],tombstone:[3,1],'tombstone-cracked':[0,2],reward:[1,2],letter:[2,2]};
+const aliases={heart:'potion',herb:'potion',gear:'sword'};
 export function drawReadableProp(ctx,atlas,type,x,y,size=64,height=size){
  const cell=READABLE_PROP_FRAMES[aliases[type]||type];if(!cell||!atlas.complete||atlas.naturalWidth!==256||atlas.naturalHeight!==192)return false;
  const scale=Math.min(size,height)/64,w=64*scale;ctx.imageSmoothingEnabled=false;ctx.drawImage(atlas,cell[0]*64,cell[1]*64,64,64,x+(size-w)/2,y+height-w,w,w);return true;

diff --git a/card-orders.js b/card-orders.js
@@ -22,7 +22,7 @@ export const actionCards=[
  {id:'collect-weapons',name:'武器を取得',detail:'発見済みの武器へ向かう。'},
  {id:'collect-armor',name:'防具を取得',detail:'発見済みの防具へ向かう。'},
  {id:'collect-fragments',name:'記憶の欠片を取得',detail:'床の記憶の欠片へ向かう。'},
- {id:'collect-herbs',name:'ハートを取得',detail:'床のハートへ向かう。'},
+ {id:'collect-herbs',name:'回復ポーションを取得',detail:'床の回復ポーションへ向かう。'},
  {id:'letter',name:'手紙の箱を開ける',detail:'物語条件を満たす手紙の箱へ向かう。'},
  {id:'frontier',name:'全ての部屋を探索する',detail:'まだ入っていない部屋を優先し、全ての部屋へ入ったら完了。'},
  {id:'explore-all',name:'全てのマスを探索する',detail:'到達できる未踏の床を順に歩く。'},

diff --git a/healing-items.js b/healing-items.js
@@ -1,4 +1,4 @@
-// Canonical pickup is heart; potion/herb and the spring card are read-only aliases.
+// Save-compatible type heart is displayed as 回復ポーション. potion/herb remain aliases.
 export const isHealingItem=i=>['heart','herb','potion'].includes(i?.type);
 export const healingCardKey=k=>k==='action:collect-springs'?'action:collect-herbs':k;
 export function healingRow(input){const r=structuredClone(input);if(r?.effect?.kind==='action'&&r.effect.id==='collect-springs')r.effect.id='collect-herbs';return r;}

diff --git a/IMPLEMENTATION_NOTES.md b/IMPLEMENTATION_NOTES.md
@@ -1,18 +1,14 @@
 # 現行の検証と課題
 
-更新日：2026-11-08。今回の回復統合・小物素材修正は77109f0を基準に修正。オーグメント個別成長表は採用済み。過去の数値や制作履歴は現行資料に混在させない。
+更新日：2026-11-08。今回の回復ポーション名称・アイコンと階段の修正は9b377eeを基準に修正。オーグメント個別成長表は採用済み。過去の数値や制作履歴は現行資料に混在させない。
 
-## ハート統合・小物の視認性
+## 回復ポーション・横向き上り階段
 
-新規回復をheartへ統一。確定2枠＋追加2枠の各25%とボス左右2個、回復10HPを維持。泉専用カードを廃止し公開カード52種へ変更。旧potion／herb、泉カードの所持・発見・NEW・配置・箱・候補とプリセットは固定移行し、重複はまとめる。保存v16、再抽選・補償なし。
+表示名を回復ポーション、取得カードを「回復ポーションを取得」へ変更。ログ・思考・旧指示の説明・図鑑と資料も統一。保存互換用の内部種別heart、カードID collect-herbs、旧potion／herb・泉の互換は維持。回復量10HP・配置数・カード52種・抽選・指示処理・保存v16は変更なし。
 
-ハート・記憶の欠片・武器・防具・封筒マークは今回のhost_image新規生成。原画を64px・共通64色・二値アルファへ仕上げた。宝箱・赤箱・階段・墓石2種・互換報酬は現行素材の縦横比を維持して再配置。手紙の箱の白い四角は封筒マークへ差し替えた。map-readable-props/v1で足元Y56とセルを定義し、raw原画・中間物はGitへ含めない。採用アトラスとプロンプト・SHA256はart/props/readable-v1/。主人公・敵・床・壁・罠素材は維持。
+回復ポーションと階段をhost_imageで新規生成し、単一素材processは両方qa_status=pass。ポーションは瓶・赤い液体、階段は左低・右高の横向き5段。天面・蹴上げ・厚い側面で立体感を強調。64pxセル・足元Y56・二値アルファ・既存パレットを保持し、他10セル（空き1セル含む）の画素同一を確認。比較とQAはoutput/potion-stairs-20261108-r1/。原画・中間物はGitへ含めず、採用アトラスとプロンプト・SHA256を保持。
 
-追加3テストで通常・ボスの生成と10HP回復、旧セーブの状態・選択待ち・無乱数移行・冪等性、旧プリセットと引継ぎを確認。追加1テストでformatと描画セルの一致・画像寸法・容量・等倍率を確認。全401テスト成功。カード一覧生成・配信URL更新と--checkも成功。素材5種のprocessはqa_status=pass、11セルの非空・端切れ・二値アルファはローカルqa.jsonで確認。
-
-無音verify=1・隔離localhost:4327の1280×720で新小物を本編表示し、実寸と拡大比較を目視。画像output/object-icons-20261108-r1/game-icons.png。公開走行は本番ロジック・描画・配信整合をローカルで確認できるため省略。スマホ実機、すべての床色での比較は未確認。今回の「各素材」確認はマップ内の素材を対象とし、全UIやキャラクターの再制作は行っていない。
-
-400初回＋条件付き2周目4件の本番通し検証を再測定。監査開始後に追加したコード変更は描画・ログ文言だけで、進行ロジックの変更はない。現行の通常END再現はseed1886123・テーマ方針・2669ターン。詳細は下記とdocs/verification/CURRENT_BALANCE.md。
+全401テストと配信URL・カード一覧の--check成功。無音verify=1・隔離localhost:4328の1280×720で瓶と横向き階段を目視、カード図鑑で「回復ポーションを取得」「床の回復ポーションへ向かう。」を確認。画像はoutput/potion-stairs-20261108-r1/game-potion-stairs.png。公開走行はローカル描画・配信整合で確認できるため省略。スマホ実機・全床色は未確認。今回は名称・描画だけで進行数値を変更しないため、400試行の通し検証の再測定は不要と判断。直近の進行結果は下記とdocs/verification/CURRENT_BALANCE.md参照。
 
 ## 6種類の罠
 
